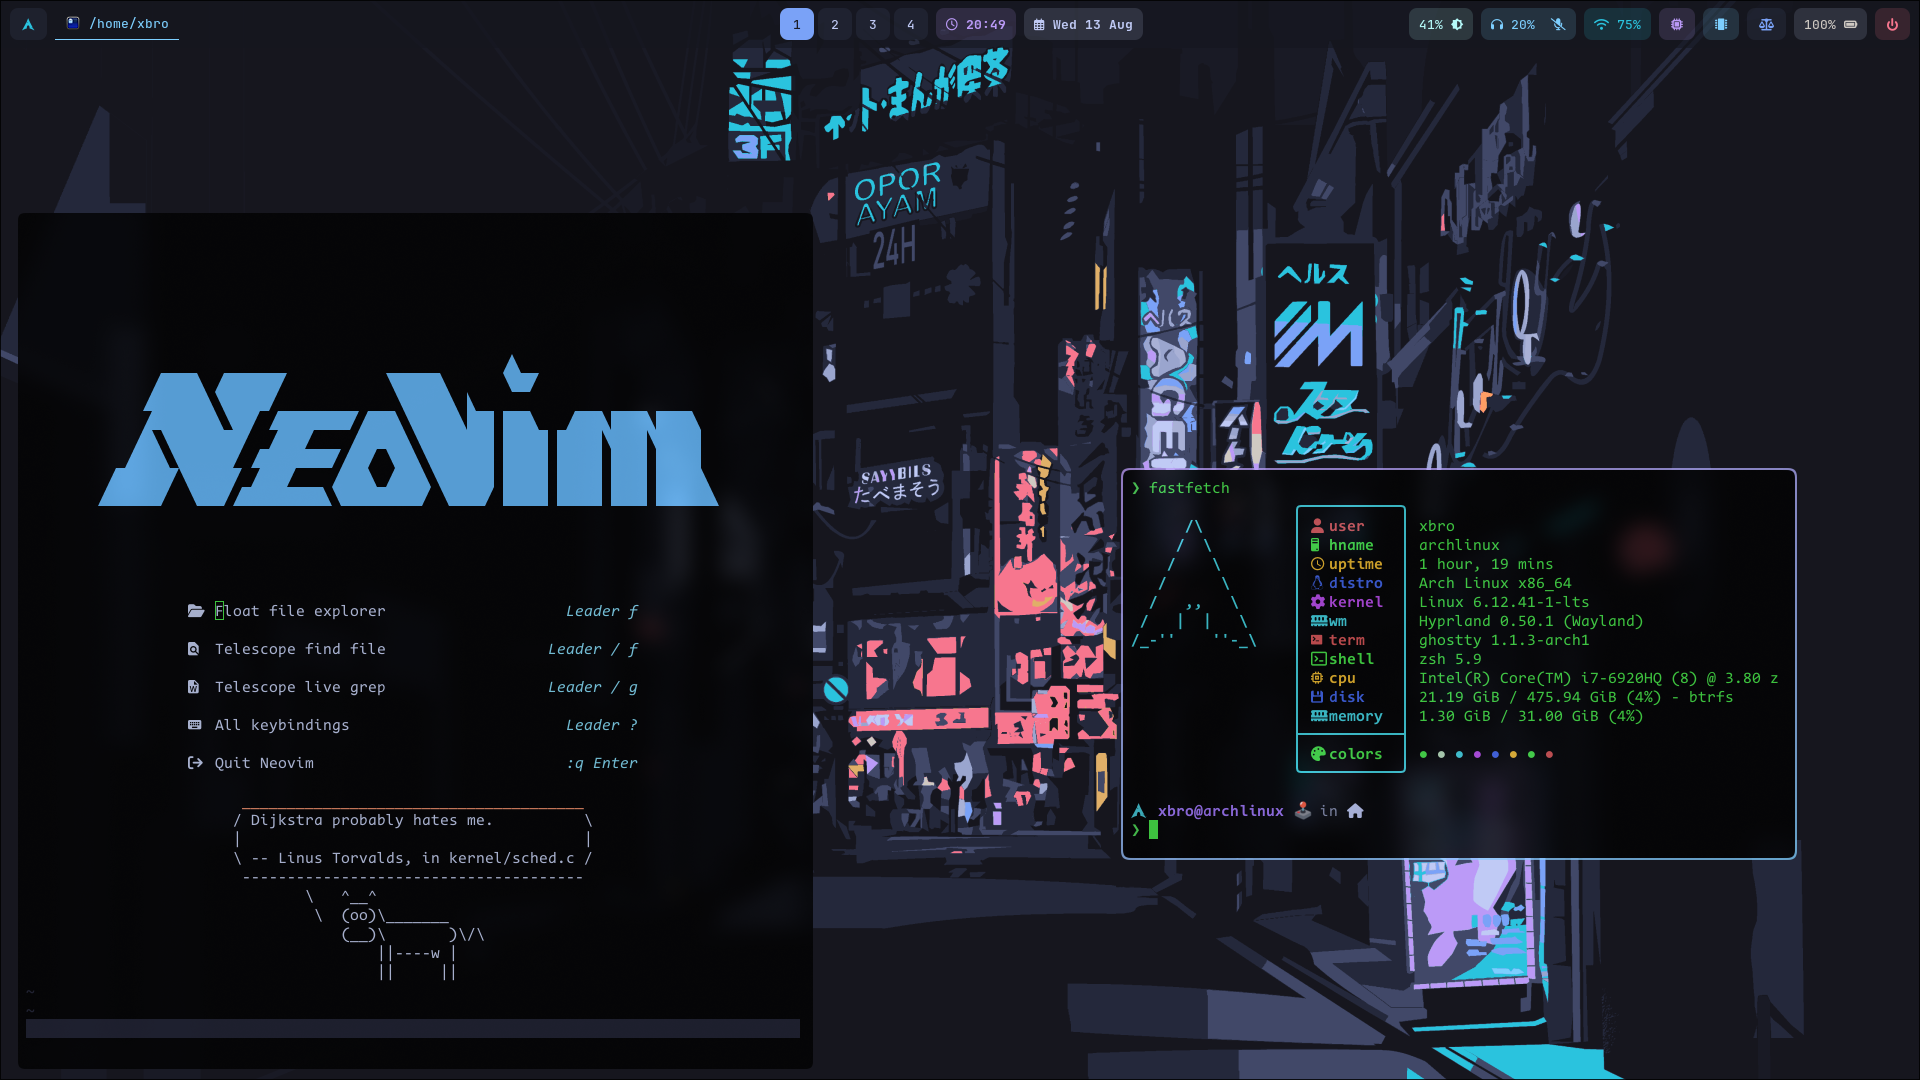
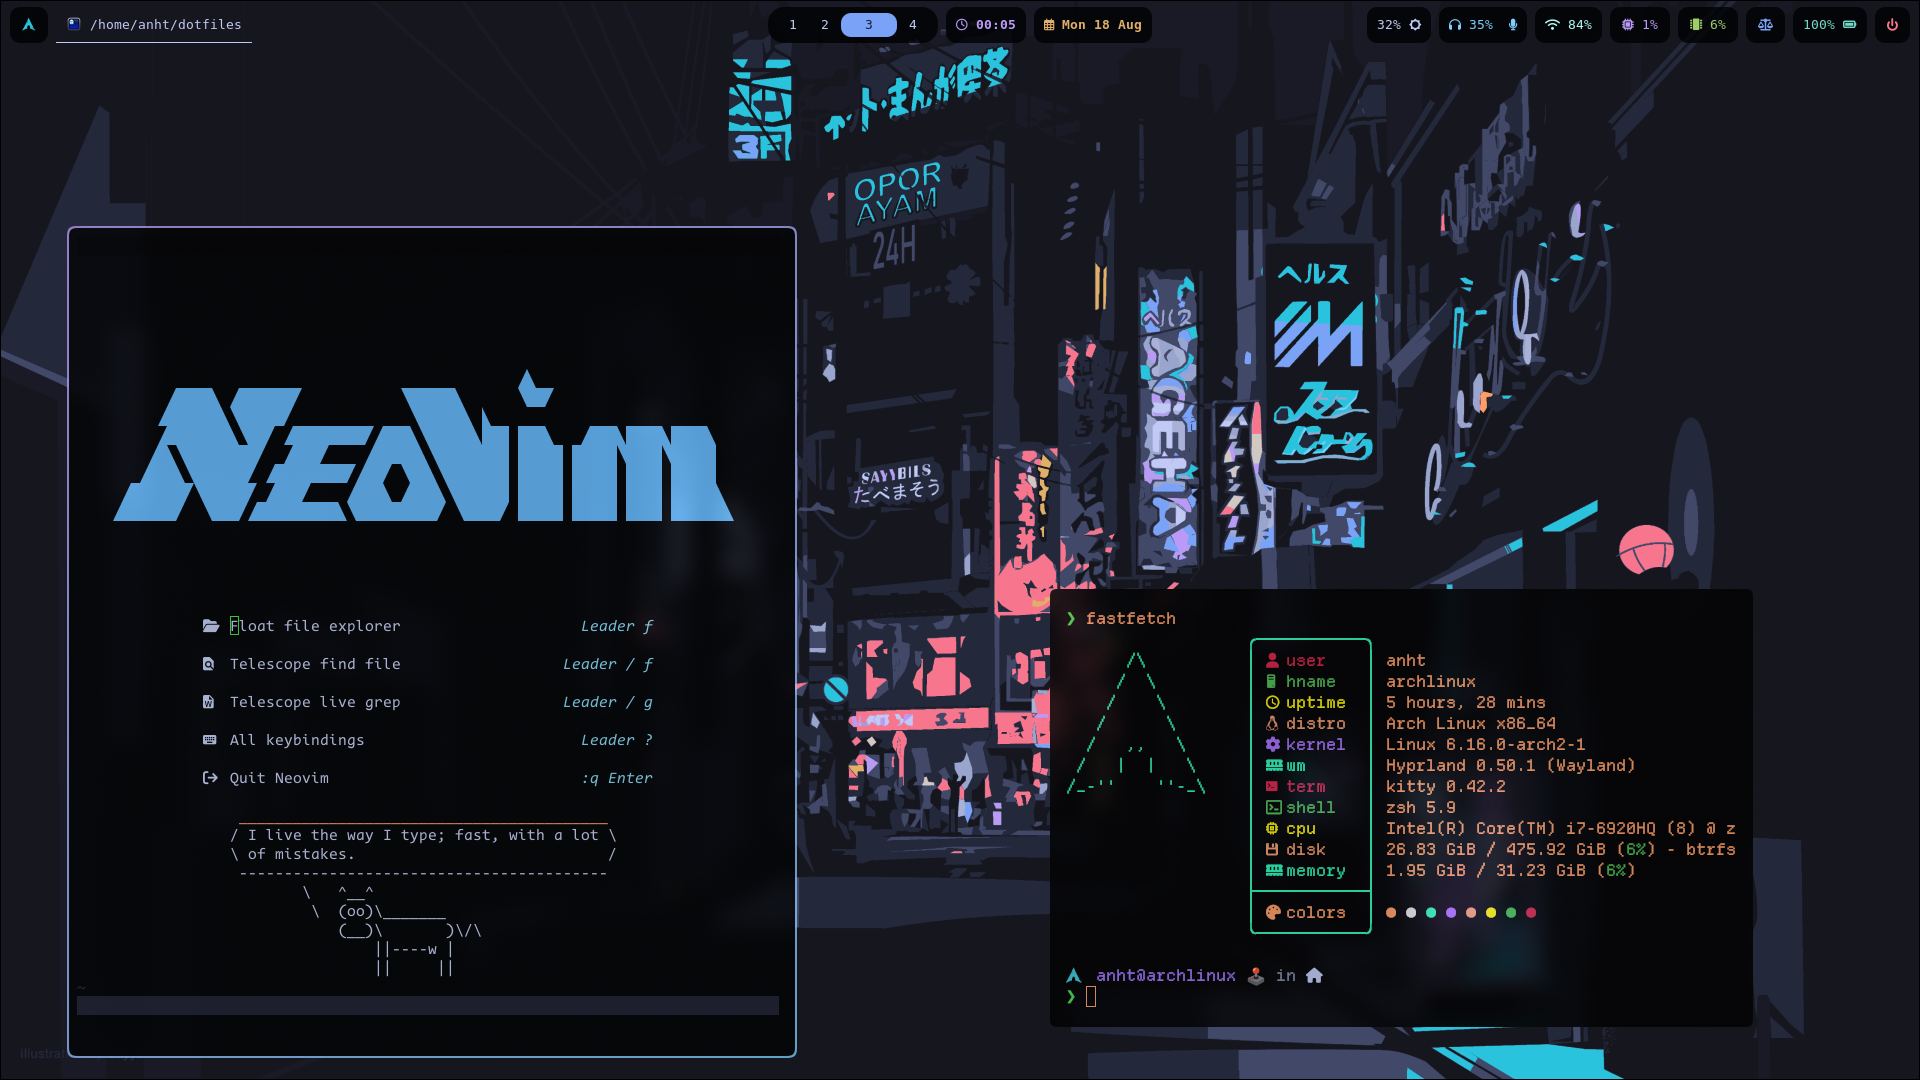
Update

diff --git a/waybar/style.css b/waybar/style.css
@@ -1,7 +1,7 @@
 @import 'colors.css';
 
 * {
-    font-family: JetBrainsMono Nerd Font Propo;
+    font-family: DejaVuSansM Nerd Font Propo;
     font-size: 13px;
     font-weight: 500;
     box-shadow: none;
@@ -10,136 +10,128 @@
 
 window#waybar {
     transition: all 0.3s ease-in;
-    background: @base0_opa60;
+    background: transparent;
 }
 
 window#waybar.hidden {
-    opacity: 0.5;
 }
 
 button {
     border: none;
-    border-radius: 8px;
 }
 
 tooltip {
     border-radius: 8px;
     color: @smoke;
-    background: @base1;
+    background: @base;
     border: 1px solid @blue1;
 }
 
 menu {
-	color: @smoke;
-  padding: 6px;
-	background: @base1;
-	border-radius: 5px;
-  border: 1px solid @blue1;
+	  color: @smoke;
+    padding: 6px;
+	  background: @base;
+	  border-radius: 8px;
+    border: 1px solid @blue1;
 }
 menuitem {
-	border-radius: 5px;
-  transition: all 0.2s ease-in;
+	  border-radius: 8px;
+    transition: all 0.2s ease-in;
 }
 
 .module {
-    margin: 8px 4px;
-    border-radius: 8px;
+    margin: 3px 4px;
+    border-radius: 10px;
+    background: @base;
 }
 
 #custom-rofi {
+    font-size: 14px;
     padding: 0px 12px;
     margin-left: 10px;
     color: @cyan0;
-    background: @blue0_opa15;
     transition: all 0.3s ease-in;
 }
 
 #custom-rofi:hover {
-    background: @cyan1_opa15;
+    color: @green1;
 }
 
 #window {
-    color: @cyan1;
+    color: @smoke;
     padding: 0px 10px;
     border-radius: 0px;
-    border-bottom: 1px solid @cyan1;
-}
-
-#workspaces {
+    border-bottom: 1px solid @smoke;
     background: transparent;
 }
 
+#workspaces {
+    padding: 0px 9px;
+}
+
 #workspaces button {
+    font-weight: 700;
+    margin: 6px 0px;
+    padding: 0px 8px;
+    border-radius: 8px;
     transition: all 0.3s ease-in;
-    margin-left: 4px;
-    background: @blue0_opa15;
     color: @smoke;
 }
 #workspaces button:hover {
-    color: @blue1;
+    padding: 0px 20px;
+    color: @base;
+    background: @green0;
 }
 #workspaces button.active {
-    color: @base1;
+    padding: 0px 20px;
+    color: @base;
     background: @blue1;
 }
-#workspaces button.active:hover {
-    color: @base1;
-    background: @blue1;
-}
-
 #workspaces button.urgent {
-    background: @pink;
+    color: @base;
+    background: @orange;
 }
 
 #clock {
     font-weight: 700;
     padding: 0px 10px;
     color: @purple1;
-    background: @purple1_opa15;
 }
 
 #clock.date {
-    color: @smoke;
-    background: @smoke_opa15;
+    color: @yellow;
 }
 
 #backlight {
     padding: 0px 10px;
-    color: @teal2;
-    background: @teal2_opa15;
+    color: @smoke;
 }
 
 #pulseaudio {
     padding: 0px 10px;
     color: @cyan1;
-    background: @cyan1_opa15;
 }
 
 #network {
-    color: @cyan0;
-    background: @cyan0_opa15;
     padding: 0px 10px;
+    color: @teal2;
 }
 #network.disconnected {
-    color: @yellow;
-    background: @yellow_opa15;
+    color: @orange;
 }
 
 #cpu {
     padding: 0px 12px;
     color: @purple1;
-    background: @purple1_opa15;
 }
 
 #memory {
     padding: 0px 12px;
-    color: @cyan1;
-    background: @cyan1_opa15;
+    color: @green0;
 }
 
 #power-profiles-daemon {
     padding: 0px 12px;
-    background: @blue0_opa15;
 }
 
 #power-profiles-daemon.performance {
@@ -151,28 +143,24 @@ menuitem {
 }
 
 #power-profiles-daemon.power-saver {
-    color: @green;
+    color: @green0;
 }
 
 #battery {
     padding: 0px 10px;
-    background: @smoke_opa15;
-    color: @gray;
+    color: @teal1;
 }
 
 #battery.charging, #battery.plugged {
-    color: @green;
-    background: @green_opa15;
+    color: @green0;
 }
 
 #battery.critical:not(.charging) {
     color: @pink;
-    background: @pink_opa15;
 }
 
 #custom-power {
     padding: 0px 12px;
     color: @pink;
-    background: @pink_opa15;
     margin-right: 10px;
 }

diff --git a/waybar/colors.css b/waybar/colors.css
@@ -1,11 +1,12 @@
 /* Tokyo_night colors */
 
-@define-color green	rgba(158, 206, 106, 1);
 @define-color yellow rgba(224, 175, 104, 1);
 @define-color orange rgba(255, 158, 100, 1);
 @define-color pink rgba(247, 118, 142, 1);
 @define-color smoke rgba(192, 202, 245, 1);
-@define-color gray rgba(207, 201, 194, 1);
+
+@define-color green0	rgba(158, 206, 106, 1);
+@define-color green1	rgba(69, 235, 69, 1);
 
 @define-color purple0 rgba(154, 126, 204, 1);
 @define-color purple1 rgba(187, 154, 247, 1);
@@ -20,32 +21,4 @@
 @define-color cyan0 rgba(42, 195, 222, 1);
 @define-color cyan1 rgba(125, 207, 255, 1);
 
-@define-color base0 rgba(21, 22, 30, 1);
-@define-color base1 rgba(26, 27, 38, 1);
-
-
-@define-color green_opa15	rgba(158, 206, 106, 0.15);
-@define-color yellow_opa15 rgba(224, 175, 104, 0.15);
-@define-color orange_opa15 rgba(255, 158, 100, 0.15);
-@define-color pink_opa15 rgba(247, 118, 142, 0.15);
-@define-color smoke_opa15 rgba(192, 202, 245, 0.15);
-@define-color gray_opa15 rgba(207, 201, 194, 0.15);
-
-@define-color purple0_opa15 rgba(154, 126, 204, 0.15);
-@define-color purple1_opa15 rgba(187, 154, 247, 0.15);
-
-@define-color teal0_opa15 rgba(74, 186, 175, 0.15);
-@define-color teal1_opa15 rgba(115, 218, 202, 0.15);
-@define-color teal2_opa15 rgba(180, 249, 248, 0.15);
-
-@define-color blue0_opa15 rgba(86, 95, 137, 0.15);
-@define-color blue1_opa15 rgba(122, 162, 247, 0.15);
-
-@define-color cyan0_opa15 rgba(42, 195, 222, 0.15);
-@define-color cyan1_opa15 rgba(125, 207, 255, 0.15);
-
-@define-color base0_opa15 rgba(21, 22, 30, 0.15);
-@define-color base1_opa15 rgba(26, 27, 38, 0.15);
-
-@define-color base0_opa60 rgba(21, 22, 30, 0.6);
-
+@define-color base rgba(1, 2, 3, 0.85);

diff --git a/swaync/style.css b/swaync/style.css
@@ -1,0 +1,56 @@
+:root {
+  --border-radius: 22px;
+  --cc-bg: transparent;
+
+  --widget-background: rgba(46, 46, 46, 0.7);
+
+  --padding: calc(var(--border-radius) / 2);
+}
+
+.control-center {
+  border-radius: 0;
+}
+
+.widgets > .widget,
+.widget-mpris > carouselindicatordots,
+.widget-mpris > box > button {
+  background: var(--widget-background);
+  border-radius: var(--border-radius);
+  padding: calc(var(--border-radius) / 2);
+  border: var(--border);
+}
+
+.control-center-list-placeholder {
+  padding: var(--border-radius);
+}
+
+.notification-group {
+  border-radius: var(--border-radius);
+  padding: 8px;
+}
+
+.widget.widget-mpris {
+  background: transparent;
+  border-radius: 0;
+  padding: 0;
+  border: none;
+}
+.widget.widget-mpris > carouselindicatordots {
+  --dots-padding: 4px;
+  padding: var(--dots-padding);
+  padding-left: var(--dots-padding);
+  padding-right: calc(6px + var(--dots-padding));
+  margin: 0;
+  margin-top: var(--padding);
+}
+.widget-mpris > box > button:hover {
+  background: rgba(46, 46, 46, 1);
+}
+.widget-mpris-player {
+  box-shadow: none;
+  border: var(--border);
+  margin: 0 var(--padding);
+}
+.widget-mpris-player:only-child {
+  margin: 0;
+}
